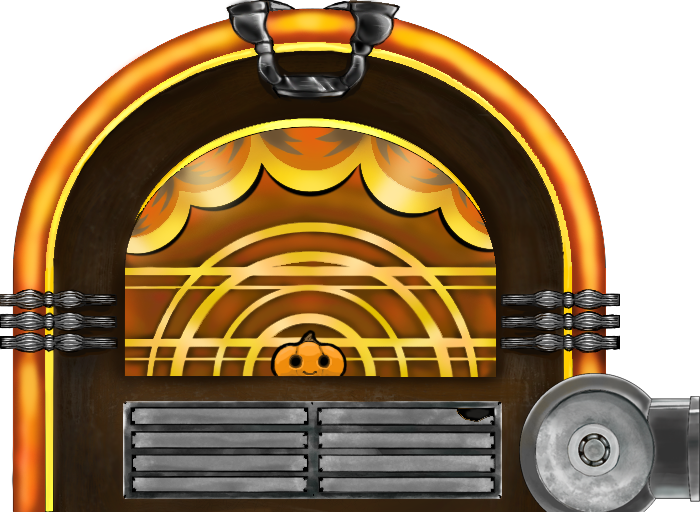
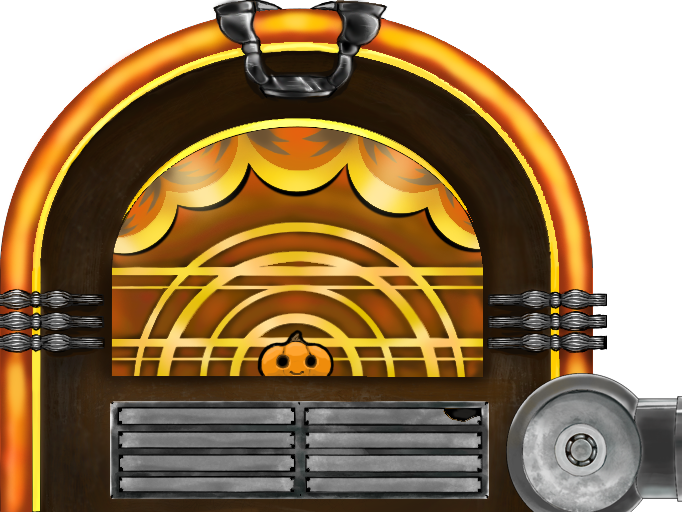
Добавлены визуальное представление нажатий (лица) и откорректированы элементы

diff --git a/TheStage/TheStage/Controls/GameContoller/Statistics.xaml b/TheStage/TheStage/Controls/GameContoller/Statistics.xaml
@@ -28,7 +28,7 @@
             </Grid.RowDefinitions>
             <control:ShortStatistics Grid.RowSpan="4"/>
             <TextBlock Grid.Column="1" Grid.Row="0" Text="{Binding Status}" HorizontalAlignment="Center" VerticalAlignment="Center" FontSize="20" />
-            <Image Grid.Row="1" Grid.Column="1" Width="75"/>
+            <Image Grid.Row="1" Grid.Column="1" Height="100" Source="{Binding Image}"/>
             <TextBlock Margin="5" Grid.Column="1" Grid.Row="2" Text="{Binding Score}" HorizontalAlignment="Center" VerticalAlignment="Center" FontSize="20"/>
             <Grid Grid.Row="3" Grid.Column="1">
                 <Grid.ColumnDefinitions>

diff --git a/TheStage/TheStage/ViewModel/wndGameControllerViewModel.cs b/TheStage/TheStage/ViewModel/wndGameControllerViewModel.cs
@@ -34,6 +34,7 @@ namespace TheStage.ViewModel
         private Dictionary<Storyboard, FrameworkElement> Animations = new Dictionary<Storyboard, FrameworkElement>();
         private List<Element> Elements = new List<Element>();
         private MediaElementSL mediaPlayer = new MediaElementSL();
+        private Image statusFace;
         public ObservableCollection<UIElement> GameObjects { get; private set; }
 
         Timer preStartTimer;
@@ -116,32 +117,58 @@ namespace TheStage.ViewModel
             Canvas.SetBottom(avatarHolder, 0);
             Canvas.SetRight(avatarHolder, 0);
 
-            Image jukebox = new Image() { Width = 273, Stretch = Stretch.UniformToFill };
+            Image jukebox = new Image() { Width = 273, Stretch = Stretch.UniformToFill }; //273
             jukebox.Source = ElementFactory.GetBitmapSource(@"Resources\Images\UI\GameController\jukebox.png");
             Canvas.SetBottom(jukebox, 0);
 
-            ImageBrush chain = new ImageBrush(ElementFactory.GetBitmapSource(@"Resources\Images\UI\GameController\chain.png")) { TileMode = TileMode.FlipX };
-            chain.Viewport = new Rect(0, 0, 100, 50);
-            chain.ViewportUnits = BrushMappingMode.Absolute;
-            chain.Stretch = Stretch.Uniform;
-            Canvas c = new Canvas() { Width = this.Width - jukebox.Width - avatarHolder.Width, Height = 50, Background = chain };
-            Canvas.SetBottom(c, 0);
-            Canvas.SetLeft(c, jukebox.Width);
+            ImageBrush fillHolderSource = new ImageBrush(ElementFactory.GetBitmapSource(@"Resources\Images\UI\GameController\container.png"))
+            { TileMode = TileMode.FlipX, Viewport = new Rect(0, 0, 100, 40), ViewportUnits = BrushMappingMode.Absolute, Stretch = Stretch.Fill };
+            Canvas fillHolder = new Canvas() { Width = this.Width - jukebox.Width - avatarHolder.Width, Height = 40, Background = fillHolderSource };
+            Canvas.SetBottom(fillHolder, 5);
+            Canvas.SetLeft(fillHolder, jukebox.Width);
 
-            Image marker = new Image();
+            ImageBrush fillerSource = new ImageBrush(ElementFactory.GetBitmapSource(@"Resources\Images\UI\GameController\filler.png"))
+            { TileMode = TileMode.FlipX, Viewport = new Rect(0, 0, 100, 40), ViewportUnits = BrushMappingMode.Absolute, Stretch = Stretch.Fill };
+            Canvas filler = new Canvas() { Width = this.Width - jukebox.Width - avatarHolder.Width, Height = 40, Background = fillerSource };
+            Canvas.SetBottom(filler, 5);
+            Canvas.SetLeft(filler, jukebox.Width);
+
+            Image marker = new Image() { Height = 40 };
             marker.Source = ElementFactory.GetBitmapSource(@"Resources\Images\UI\GameController\marker.png");
-            Canvas.SetBottom(marker, 0);
-            Storyboard markerAnimation = new Storyboard();
-            DoubleAnimation markerLeft = new DoubleAnimation(jukebox.Width, c.Width + jukebox.Width - marker.Source.Width, mediaPlayer.NaturalDuration);
-            Storyboard.SetTargetProperty(markerAnimation, new PropertyPath(Canvas.LeftProperty));
-            markerAnimation.Children.Add(markerLeft);            
-            marker.Loaded += (s, e) => { markerAnimation.Begin(marker, HandoffBehavior.Compose, true);
-                markerAnimation.Pause(marker); Animations.Add(markerAnimation, marker); };
+            Canvas.SetBottom(marker, 5);
 
-            GameObjects.Add(c);
+            Grid faceContainer = new Grid() { Height = 181.25, Width = 181.25 };
+            statusFace = new Image() { VerticalAlignment = VerticalAlignment.Center, HorizontalAlignment = HorizontalAlignment.Center, Source = ElementFactory.GetBitmapSource(@"Resources\Images\UI\GameController\Faces\safe.png") };
+            faceContainer.Children.Add(statusFace);
+            Canvas.SetBottom(faceContainer, 0);
+            Canvas.SetRight(faceContainer, 0);
+
+            #region Animations 
+            Storyboard markerAnimation = new Storyboard();
+            DoubleAnimation markerLeft = new DoubleAnimation(jukebox.Width, fillHolder.Width + jukebox.Width - marker.Source.Width, mediaPlayer.NaturalDuration);
+            Storyboard.SetTargetProperty(markerAnimation, new PropertyPath(Canvas.LeftProperty));
+
+            Storyboard fillerAnimation = new Storyboard();
+            DoubleAnimation fillerWidth = new DoubleAnimation(0, Width - jukebox.Width - avatarHolder.Width, mediaPlayer.NaturalDuration);
+            Storyboard.SetTargetProperty(fillerAnimation, new PropertyPath(Canvas.WidthProperty));
+
+            fillerAnimation.Children.Add(fillerWidth);
+            markerAnimation.Children.Add(markerLeft);
+            marker.Loaded += (s, e) =>
+            {
+                fillerAnimation.Begin(filler, HandoffBehavior.Compose, true);
+                fillerAnimation.Pause(filler); Animations.Add(fillerAnimation, filler);
+                markerAnimation.Begin(marker, HandoffBehavior.Compose, true);
+                markerAnimation.Pause(marker); Animations.Add(markerAnimation, marker);
+            };
+            #endregion
+
+            GameObjects.Add(fillHolder);
+            GameObjects.Add(filler);
             GameObjects.Add(marker);
             GameObjects.Add(jukebox);
             GameObjects.Add(avatarHolder);
+            GameObjects.Add(faceContainer);
         }
 
         private Button CreateButton(string content, Action clickDelegate)
@@ -469,18 +496,21 @@ namespace TheStage.ViewModel
                 case 0://x < 50ms
                 case 1:
                     status.TextElement.Style = (Style)status.TextElement.FindResource("StatusExcellentStyle");
+                    statusFace.Source = ElementFactory.GetBitmapSource(@"Resources\Images\UI\GameController\Faces\excellent.png");
                     Stats.Score += (100 * ComboMultiplyer);
                     Stats.Excellent++;
                     ComboMultiplyer++;
                     break;
                 case 2://x < 75ms 
                     status.TextElement.Style = (Style)status.TextElement.FindResource("StatusGoodStyle");
+                    statusFace.Source =ElementFactory.GetBitmapSource(@"Resources\Images\UI\GameController\Faces\good.png");
                     Stats.Score += (75 * ComboMultiplyer);
                     Stats.Good++;
                     ComboMultiplyer++;
                     break;
                 case 3://x < 100ms
                     status.TextElement.Style = (Style)status.TextElement.FindResource("StatusSafeStyle");
+                    statusFace.Source =ElementFactory.GetBitmapSource(@"Resources\Images\UI\GameController\Faces\safe.png");
                     Stats.Score += 50;
                     Stats.Safe++;
                     ComboMultiplyer = 1;
@@ -488,6 +518,7 @@ namespace TheStage.ViewModel
                 case 4://x < 150ms
                 case 5:
                     status.TextElement.Style = (Style)status.TextElement.FindResource("StatusAwfulStyle");
+                    statusFace.Source =ElementFactory.GetBitmapSource(@"Resources\Images\UI\GameController\Faces\awful.png");
                     Stats.Score += 10;
                     Stats.Awful++;
                     ComboMultiplyer = 1;
@@ -495,10 +526,12 @@ namespace TheStage.ViewModel
                 case 6://x < 200ms
                 case 7:
                     status.TextElement.Style = (Style)status.TextElement.FindResource("StatusBadStyle");
+                    statusFace.Source =ElementFactory.GetBitmapSource(@"Resources\Images\UI\GameController\Faces\bad.png");
                     Stats.Bad++;
                     ComboMultiplyer = 1;
                     break;
                 default:
+                    statusFace.Source =ElementFactory.GetBitmapSource(@"Resources\Images\UI\GameController\Faces\miss.png");
                     Stats.Miss++;
                     ComboMultiplyer = 1;
                     break;

diff --git a/TheStage/TheStage/ViewModel/StatisticsViewModel.cs b/TheStage/TheStage/ViewModel/StatisticsViewModel.cs
@@ -5,11 +5,20 @@ using System.Linq;
 using System.Runtime.CompilerServices;
 using System.Text;
 using System.Threading.Tasks;
+using System.Windows.Media;
+using TheStage.Elements.Base.Factories;
 
 namespace TheStage.ViewModel
 {
     public class StatisticsViewModel : INotifyPropertyChanged
     {
+        private ImageSource image;
+        public ImageSource Image
+        {
+            get { return image; }
+            set { image = value; RaisePropertyChanged(); }
+        }
+
         private long score = 0;
         public long Score
         {
@@ -76,15 +85,20 @@ namespace TheStage.ViewModel
                 switch (Convert.ToInt32(Success) / 5)
                 {
                     case 20: //x = 100%
-                        return string.Format("Идеально! ({0:N1}%)",Success);
+                        Image = ElementFactory.GetBitmapSource(@"Resources\Images\UI\GameController\Faces\excellent.png");
+                        return string.Format("Идеально! ({0:N1}%)", Success);
                     case 19: //x > 95%
+                        Image = ElementFactory.GetBitmapSource(@"Resources\Images\UI\GameController\Faces\good.png");
                         return string.Format("Изумительно! ({0:N1}%)", Success);
                     case 18: //x > 90%
+                        Image = ElementFactory.GetBitmapSource(@"Resources\Images\UI\GameController\Faces\safe.png");
                         return string.Format("Хорошо! ({0:N1}%)", Success);
                     case 17: //x > 80%
                     case 16:
+                        Image = ElementFactory.GetBitmapSource(@"Resources\Images\UI\GameController\Faces\awful.png");
                         return string.Format("Пройден ({0:N1}%)", Success);
                     default:
+                        Image = ElementFactory.GetBitmapSource(@"Resources\Images\UI\GameController\Faces\miss.png");
                         return string.Format("Неудача ({0:N1}%)", Success);
                 }
             }
